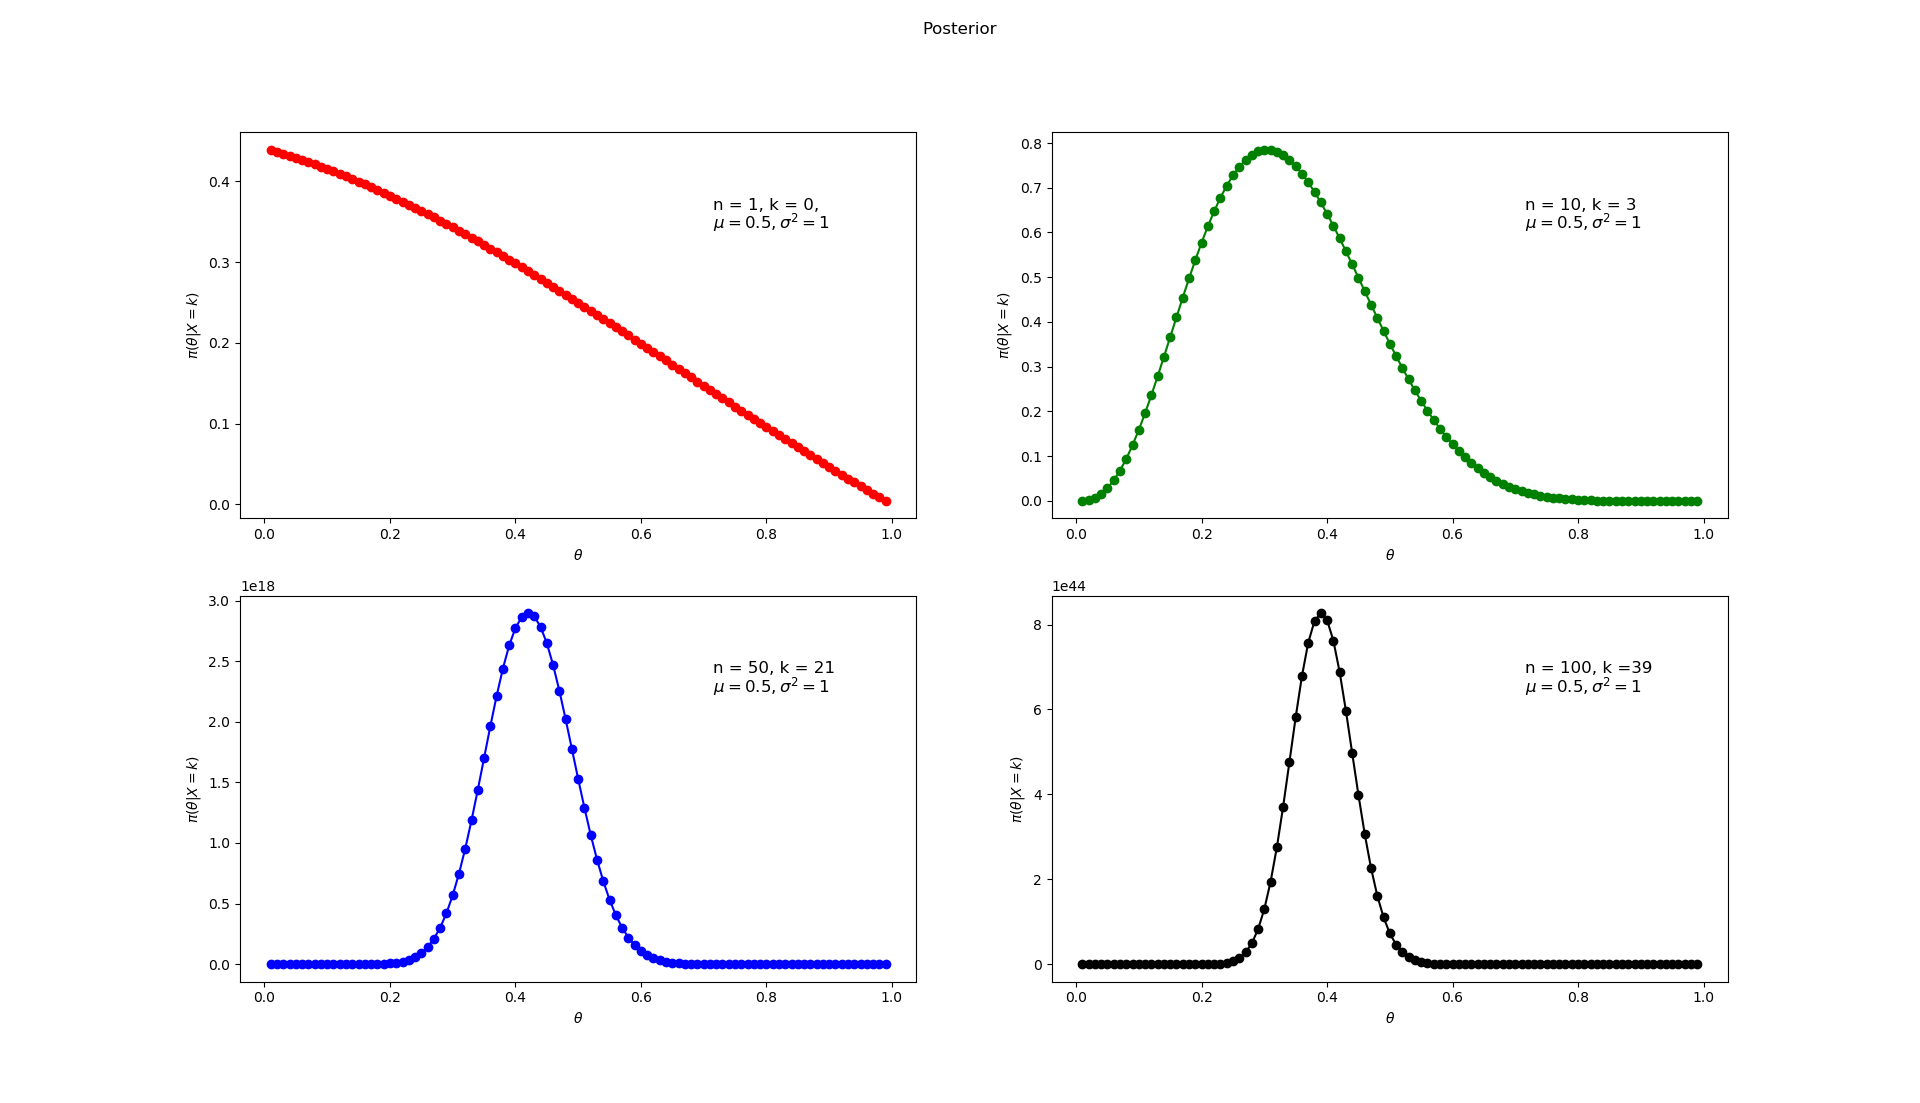
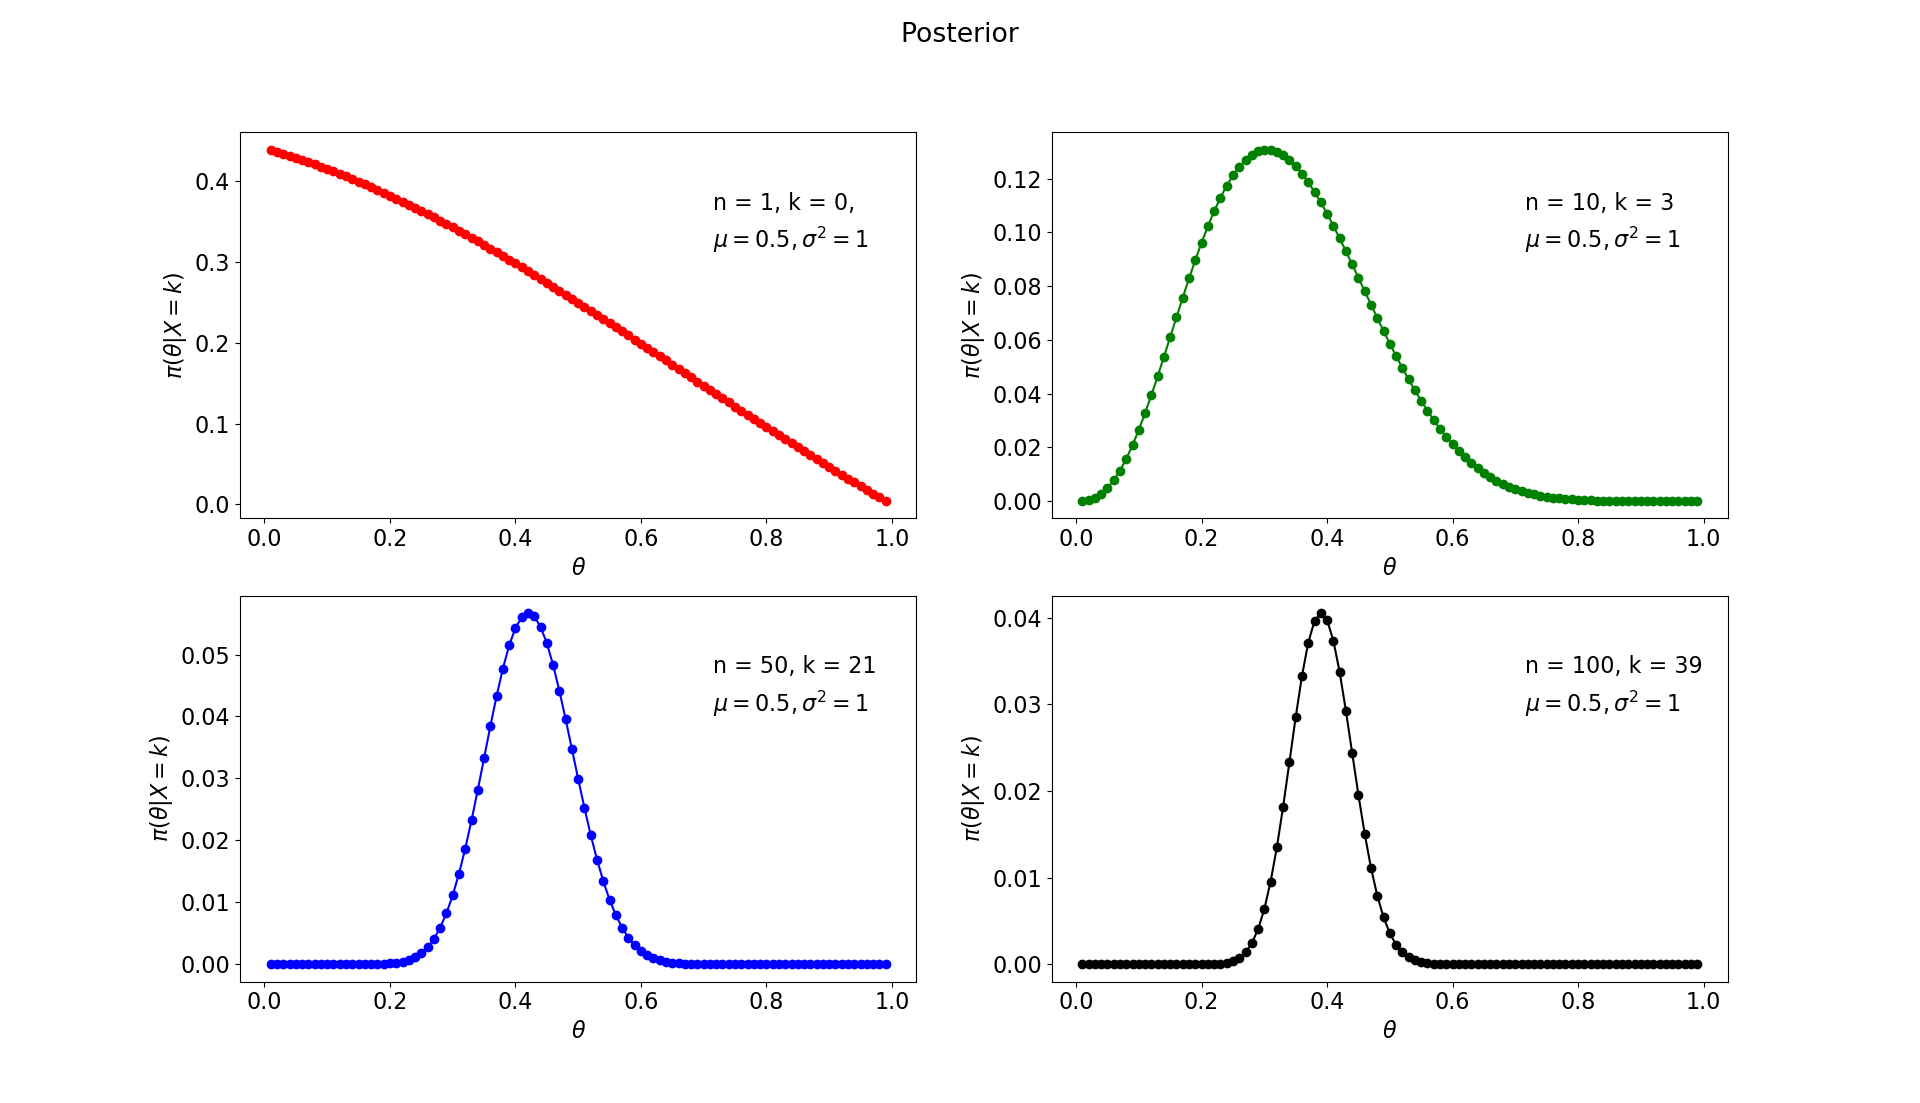
Add files via upload

diff --git a/comp_task_2/comp_task_2.py b/comp_task_2/comp_task_2.py
@@ -26,6 +26,11 @@ else:
 print('Current working directory: '+os.getcwd())
 
 ##########################################################################################################
+# Change font size, ... 
+##########################################################################################################
+plt.rcParams.update({'font.size': 16})
+
+##########################################################################################################
 # Let the experiment be tossing a coin to analsye the fairness of the coin with p := probability that the 
 # result is heads in a given toss of the coin. The coin is tossed n times and let k be the number of times 
 # the coin is facing heads. Therefore, the random variale X of the experiment follow a Binomial distribution.
@@ -43,16 +48,17 @@ def likelihood(n,k,theta):
 # define normal density without the coefficient 1/square(2pi)*sigma
 def exp_gauss(theta,var):
     return np.exp(-(theta-0.5)**2/(2*var**2))
+
 # list of number of trials performed of 4 different experiments
 n = [1, 10, 50, 100]
 
 # list of number of heads observed (number of success) on the corresponding experiment
 k = [0, 3, 21, 39]
 
-# List constaining values of p (probability of sucess)
-x = 0.01
+# Initial value of theta/ step size
+dx = 0.01
 
-# List constaining values of p (probability of sucess)
+# List constaining values of variance of prior 
 var = [1, 0.5, 0.1]
 
 # empty list for filling prob values
@@ -60,7 +66,7 @@ theta = []
 
 # for loop to create list of values of p (99 values; 98 sub-intervals)
 for i in range(99):
-    theta.append(x*(i+1))
+    theta.append(dx*(i+1))
 
 # Compute Likelihood times prior
 # empty list for filling posterior values
@@ -82,7 +88,7 @@ post = np.asarray(post)
 # Plotting figures
 ##########################################################################################################
 # strings that are labels                           
-n_k_str = ['n = 1, k = 0, ', 'n = 10, k = 3', 'n = 50, k = 21 ', 'n = 100, k =39 ']
+n_k_str = ['n = 1, k = 0, ', 'n = 10, k = 3', 'n = 50, k = 21 ', 'n = 100, k = 39 ']
 mu_var_str = [r'$\mu = 0.5, \sigma^2 = 1$', r'$\mu = 0.5, \sigma^2 = 0.5$', r'$\mu = 0.5, \sigma^2 = 0.1$']                              
 
 # Sub-plots of posterior of different experiments where the prior is N(0.5,1) 
@@ -92,16 +98,16 @@ fig.suptitle('Posterior')
 
 # labels of top panels
 for i in range(2):
-    axs0[0,i].text(0.7,0.8,n_k_str[i], fontsize = 12,transform = axs0[0,i].transAxes)
-    axs0[0,i].text(0.7,0.75,mu_var_str[0], fontsize = 12,transform = axs0[0,i].transAxes)
+    axs0[0,i].text(0.7,0.8,n_k_str[i], transform = axs0[0,i].transAxes)
+    axs0[0,i].text(0.7,0.7,mu_var_str[0], transform = axs0[0,i].transAxes)
 # plot top panels
 axs0[0, 0].plot(theta, post[0,0,:],  'r-o')
 axs0[0, 1].plot(theta, post[0,1,:], 'g-o')
 
 # labels of bottom panels
 for i in range(2):
-    axs0[1,i].text(0.7, 0.8,n_k_str[2+i], fontsize = 12,transform = axs0[1,i].transAxes)
-    axs0[1,i].text(0.7, 0.75,mu_var_str[0], fontsize = 12,transform = axs0[1,i].transAxes)
+    axs0[1,i].text(0.7, 0.8,n_k_str[2+i], transform = axs0[1,i].transAxes)
+    axs0[1,i].text(0.7, 0.7,mu_var_str[0], transform = axs0[1,i].transAxes)
 
 # plot bottom panels                             
 axs0[1, 0].plot(theta, post[0,2,:], 'b-o')
@@ -112,7 +118,7 @@ for ax in axs0.flat:
     ax.set(xlabel=r'$\theta$', ylabel=r'$\pi(\theta|X = k)$')
 
 
-plt.savefig(r'Posterior vs theta 0')
+#plt.savefig(r'Posterior vs theta 0')
 
 
 # Sub-plots of posterior of different experiments where the prior is N(0.5,0.5) 
@@ -121,16 +127,16 @@ fig.suptitle('Posterior')
 
 # labels of top panels
 for i in range(2):
-    axs1[0,i].text(0.7,0.8,n_k_str[i], fontsize = 12,transform = axs1[0,i].transAxes)
-    axs1[0,i].text(0.7,0.75,mu_var_str[1], fontsize = 12,transform = axs1[0,i].transAxes)
+    axs1[0,i].text(0.7,0.8,n_k_str[i], transform = axs1[0,i].transAxes)
+    axs1[0,i].text(0.7,0.7,mu_var_str[1], transform = axs1[0,i].transAxes)
 # plot top panels
 axs1[0, 0].plot(theta, post[1,0,:],  'r-o')
 axs1[0, 1].plot(theta, post[1,1,:], 'g-o')
 
 # labels of bottom panels
 for i in range(2):
-    axs1[1,i].text(0.7, 0.8,n_k_str[2+i], fontsize = 12,transform = axs1[1,i].transAxes)
-    axs1[1,i].text(0.7, 0.75,mu_var_str[1], fontsize = 12,transform = axs1[1,i].transAxes)
+    axs1[1,i].text(0.7, 0.8,n_k_str[2+i], transform = axs1[1,i].transAxes)
+    axs1[1,i].text(0.7, 0.7,mu_var_str[1], transform = axs1[1,i].transAxes)
 
 # plot bottom panels                             
 axs1[1, 0].plot(theta, post[1,2,:], 'b-o')
@@ -140,7 +146,7 @@ axs1[1, 1].plot(theta, post[1,3,:], 'k-o')
 for ax in axs1.flat:
     ax.set(xlabel=r'$\theta$', ylabel=r'$\pi(\theta|X = k)$')
 
-plt.savefig(r'Posterior vs theta 1')                              
+#plt.savefig(r'Posterior vs theta 1')                              
                               
                               
 # Sub-plots of posterior of different experiments where the prior is N(0.5,0.1) 
@@ -150,16 +156,16 @@ fig.suptitle('Posterior')
 
 # labels of top panels
 for i in range(2):
-    axs2[0,i].text(0.7, 0.8,n_k_str[i], fontsize = 12,transform = axs2[0,i].transAxes)
-    axs2[0,i].text(0.7, 0.75,mu_var_str[2], fontsize = 12,transform = axs2[0,i].transAxes)
+    axs2[0,i].text(0.7, 0.8,n_k_str[i], transform = axs2[0,i].transAxes)
+    axs2[0,i].text(0.7, 0.7,mu_var_str[2], transform = axs2[0,i].transAxes)
 # plot top panels
 axs2[0, 0].plot(theta, post[2,0,:],  'r-o')
 axs2[0, 1].plot(theta, post[2,1,:], 'g-o')
 
 # labels of bottom panels
 for i in range(2):
-    axs2[1,i].text(0.7, 0.8,n_k_str[2+i], fontsize = 12,transform = axs2[1,i].transAxes)
-    axs2[1,i].text(0.7, 0.75,mu_var_str[2], fontsize = 12,transform = axs2[1,i].transAxes)
+    axs2[1,i].text(0.7, 0.8,n_k_str[2+i], transform = axs2[1,i].transAxes)
+    axs2[1,i].text(0.7, 0.7,mu_var_str[2], transform = axs2[1,i].transAxes)
 
 # plot bottom panels                             
 axs2[1, 0].plot(theta, post[2,2,:], 'b-o')
@@ -169,7 +175,7 @@ axs2[1, 1].plot(theta, post[2,3,:], 'k-o')
 for ax in axs2.flat:
     ax.set(xlabel=r'$\theta$', ylabel=r'$\pi(\theta|X = k)$')
 
-plt.savefig(r'Posterior vs theta 2')                              
+#plt.savefig(r'Posterior vs theta 2')                              
                               
                               
                                           
